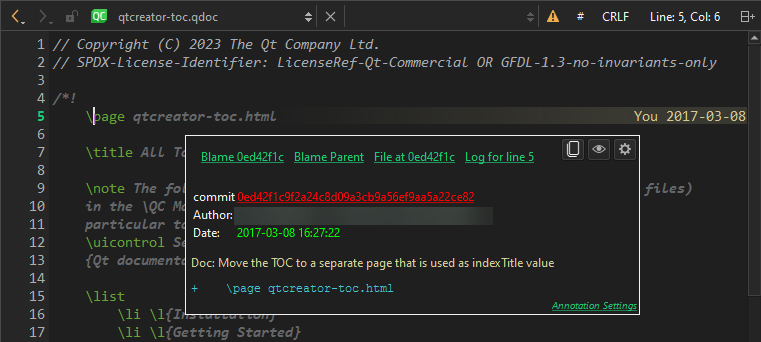
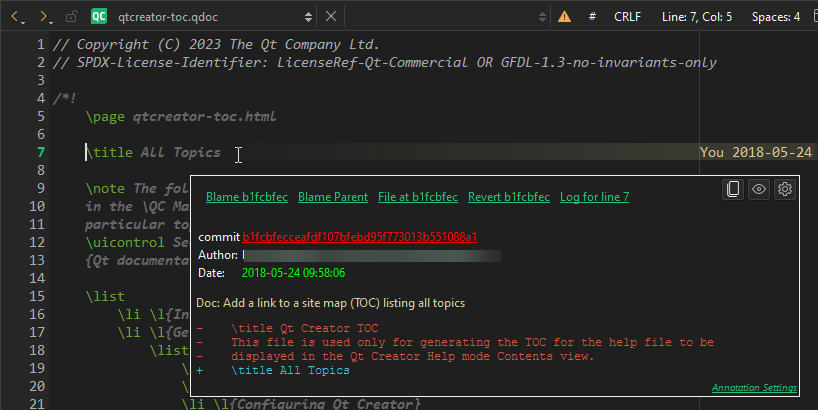
Doc: Describe reverting changes from annotation view
...when instant blame is enabled.

Task-number: QTCREATORBUG-32575

diff --git a/dist/changelog/changes-17.0.0.md b/dist/changelog/changes-17.0.0.md
@@ -190,6 +190,7 @@ Version Control Systems
   ([QTCREATORBUG-32361](https://bugreports.qt.io/browse/QTCREATORBUG-32361))
   ([Documentation](https://doc-snapshots.qt.io/qtcreator-17.0/creator-how-to-git-diff.html))
 * Added `Revert` to the actions in the `Instant Blame` tooltip
+  ([Documentation](https://doc-snapshots.qt.io/qtcreator-17.0/creator-how-to-git-reset.html))
 * Added the option to create annotated tags to the `Create Branch` dialog
 * Added a `Diff & Cancel` option to the `Uncommitted Changes Found` dialog
   ([QTCREATORBUG-25795](https://bugreports.qt.io/browse/QTCREATORBUG-25795))
